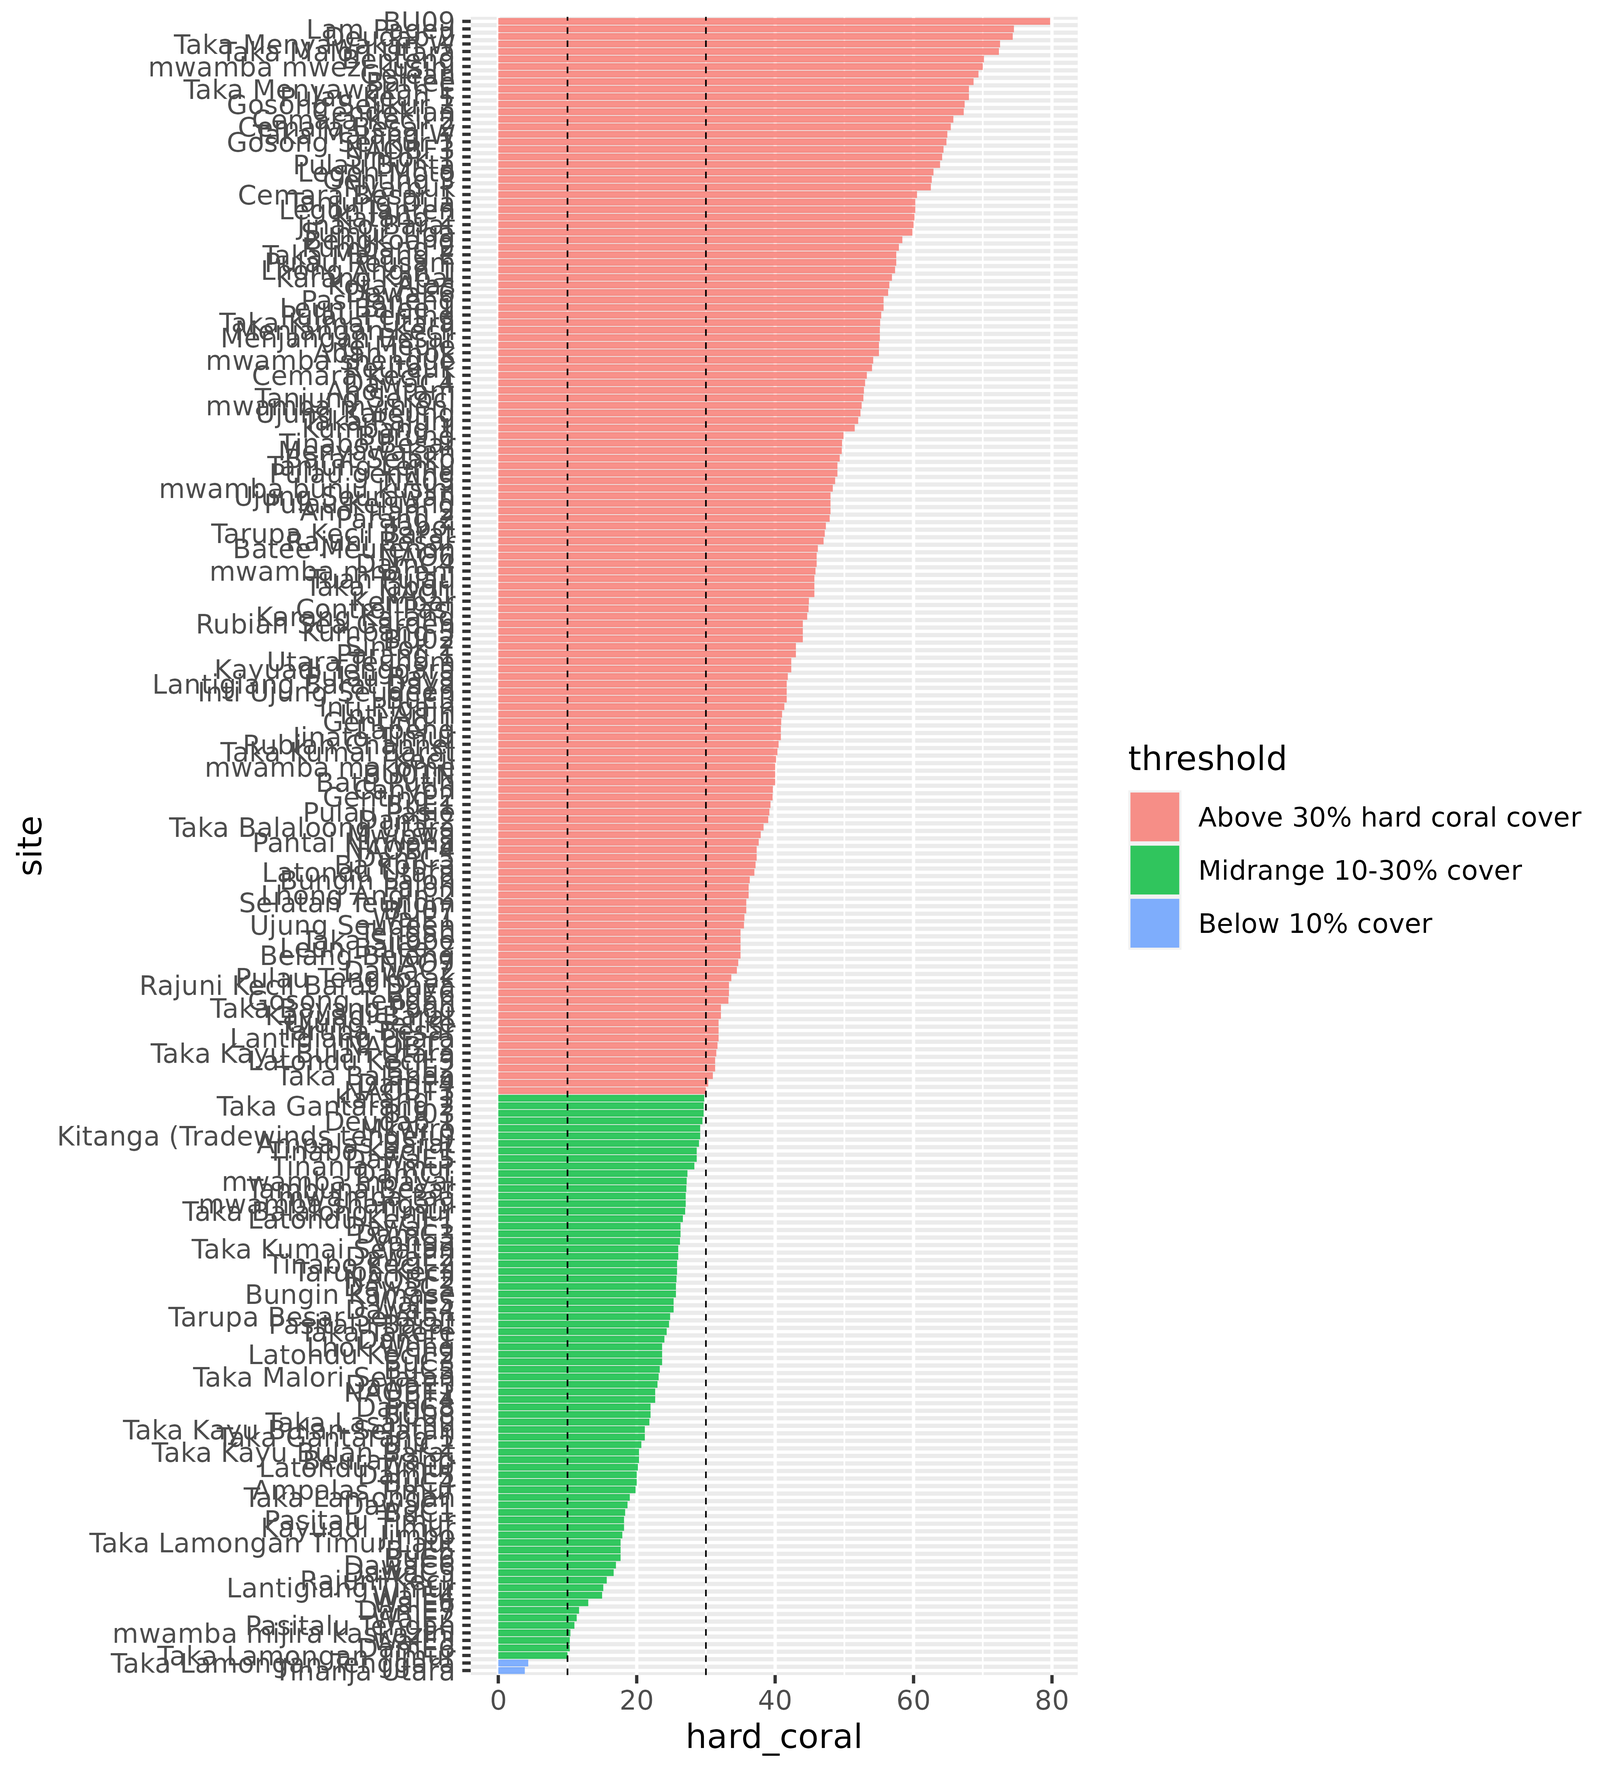
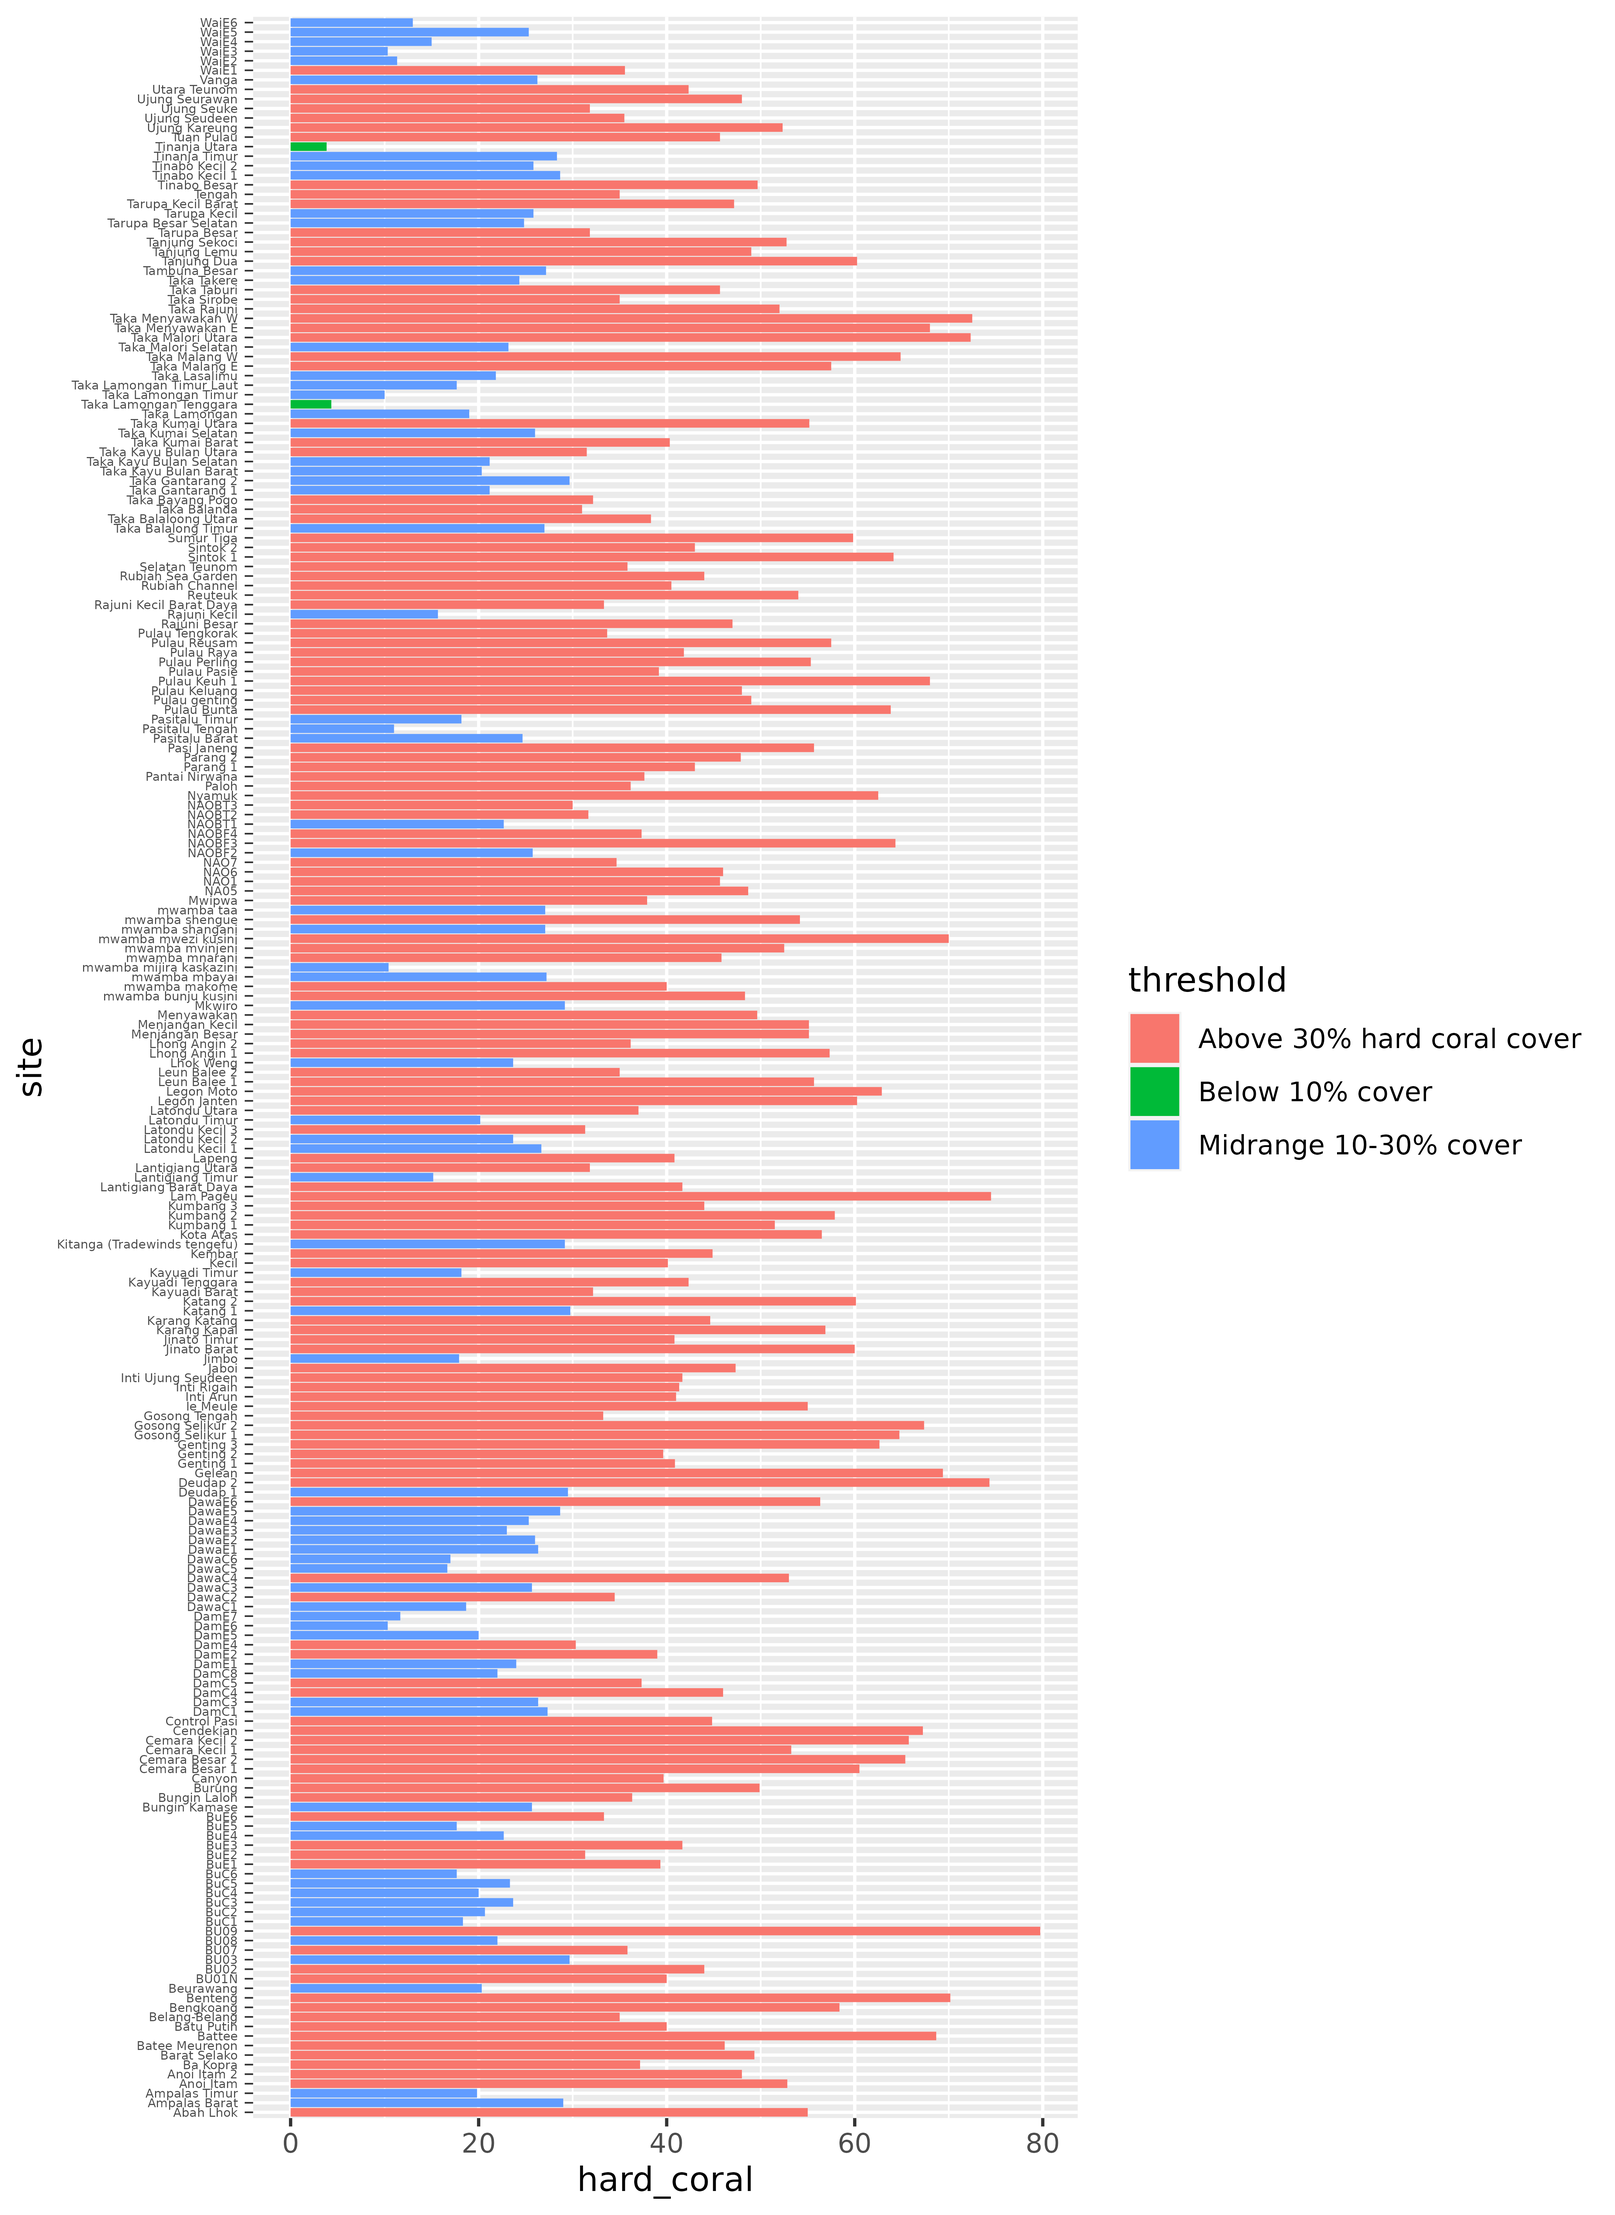
Deploying to gh-pages from @ data-mermaid/mermaidr@472158c2ac253267db38435ad36c517fda763f8d 🚀

diff --git a/articles/vo_baseline_monitoring.html b/articles/vo_baseline_monitoring.html
@@ -300,7 +300,7 @@ what do those 10 - 30% coverages actually look like?</p>
 <span></span>
 <span><span class="fu"><a href="https://ggplot2.tidyverse.org/reference/ggplot.html" class="external-link">ggplot</a></span><span class="op">(</span><span class="va">benthic_data_latest</span><span class="op">)</span> <span class="op">+</span></span>
 <span>  <span class="fu"><a href="https://ggplot2.tidyverse.org/reference/geom_bar.html" class="external-link">geom_col</a></span><span class="op">(</span><span class="fu"><a href="https://ggplot2.tidyverse.org/reference/aes.html" class="external-link">aes</a></span><span class="op">(</span>x <span class="op">=</span> <span class="va">hard_coral</span>, y <span class="op">=</span> <span class="va">site</span>, fill <span class="op">=</span> <span class="va">threshold</span><span class="op">)</span><span class="op">)</span></span></code></pre></div>
-<p><img src="vo-unnamed-chunk-10-1.png" alt="A bar chart with hard coral cover on the x axis (titled hard_coral) and sites on the y axis (titled site). The bars are colored in pink, green, and blue, according to whether they have above 30% hard coral cover, below 10% cover, or 10-30% cover, respectively. The sites are ordered alphabeticaly." width="2187.5"></p>
+<p><img src="vo-unnamed-chunk-11-1.png" alt="A bar chart with hard coral cover on the x axis (titled hard_coral) and sites on the y axis (titled site). The bars are colored in pink, green, and blue, according to whether they have above 30% hard coral cover, below 10% cover, or 10-30% cover, respectively. The sites are ordered alphabeticaly." width="2187.5"></p>
 <p>This is a good start, but it would probably be much more useful with
 a few changes. We can recorder the sites so that they go in descending
 order, from highest to lowest hard coral coverage. We can also rearrange
@@ -321,12 +321,12 @@ more explicitly.</p>
 <span>  <span class="fu"><a href="https://ggplot2.tidyverse.org/reference/geom_abline.html" class="external-link">geom_vline</a></span><span class="op">(</span>xintercept <span class="op">=</span> <span class="fl">30</span>, linetype <span class="op">=</span> <span class="st">"dashed"</span>, linewidth <span class="op">=</span> <span class="fl">0.25</span><span class="op">)</span></span>
 <span></span>
 <span><span class="va">hard_coral_plot</span></span></code></pre></div>
-<p><img src="vo-unnamed-chunk-11-1.png" alt="A bar chart with hard coral cover on the x axis (titled hard_coral) and sites on the y axis (titled site). The bars are colored in pink, green, and blue, according to whether they have above 30% hard coral cover, 10-30% cover, or below 10% cover. The sites are ordered by their hard coral coverage, from highest to lowest. There is a dashed vertical line at 10% and 30% hard coral." width="2187.5"></p>
+<p><img src="vo-unnamed-chunk-13-1.png" alt="A bar chart with hard coral cover on the x axis (titled hard_coral) and sites on the y axis (titled site). The bars are colored in pink, green, and blue, according to whether they have above 30% hard coral cover, 10-30% cover, or below 10% cover. The sites are ordered by their hard coral coverage, from highest to lowest. There is a dashed vertical line at 10% and 30% hard coral." width="2187.5"></p>
 <p>Finally, we can make some visual changes, like updating the theme,
 removing the site names; we care more about the distribution than which
-site they correspond to (which isn’t legible anyways!) for this plot,
-adding axis labels for every 10%, cleaning up labels, and some other
-fiddly bits to create a beautiful plot!</p>
+site they correspond to (which is too small to read anyways!) for this
+plot, adding axis labels for every 10%, cleaning up labels, and some
+other fiddly bits to create a beautiful plot!</p>
 <div class="sourceCode" id="cb10"><pre class="downlit sourceCode r">
 <code class="sourceCode R"><span><span class="va">hard_coral_plot</span> <span class="op">&lt;-</span> <span class="va">hard_coral_plot</span> <span class="op">+</span></span>
 <span>  <span class="fu"><a href="https://ggplot2.tidyverse.org/reference/scale_continuous.html" class="external-link">scale_x_continuous</a></span><span class="op">(</span>name <span class="op">=</span> <span class="st">"Hard coral cover, %"</span>, breaks <span class="op">=</span> <span class="fu"><a href="https://rdrr.io/r/base/seq.html" class="external-link">seq</a></span><span class="op">(</span><span class="fl">0</span>, <span class="fl">80</span>, <span class="fl">10</span><span class="op">)</span><span class="op">)</span> <span class="op">+</span></span>
@@ -341,7 +341,7 @@ fiddly bits to create a beautiful plot!</p>
 <span>  <span class="op">)</span></span>
 <span></span>
 <span><span class="va">hard_coral_plot</span></span></code></pre></div>
-<p><img src="vo-unnamed-chunk-12-1.png" alt="A bar chart with hard coral cover on the x axis and sites on the y axis. The bars are colored in grey, yellow, and red, according to whether they have above 30% hard coral cover, 10-30% cover, or below 10% cover. The sites are ordered by their hard coral coverage, from highest to lowest. There is a vertical line at 10% and 30% hard coral cover. The site names have been removed and the plot now has a title: A sample of WCS Vibrant Ocean survey sites, ordered by hard coral cover. The x axis is titled: Hard coral cover, %." width="2187.5"></p>
+<p><img src="vo-unnamed-chunk-14-1.png" alt="A bar chart with hard coral cover on the x axis and sites on the y axis. The bars are colored in grey, yellow, and red, according to whether they have above 30% hard coral cover, 10-30% cover, or below 10% cover. The sites are ordered by their hard coral coverage, from highest to lowest. There is a vertical line at 10% and 30% hard coral cover. The site names have been removed and the plot now has a title: A sample of WCS Vibrant Ocean survey sites, ordered by hard coral cover. The x axis is titled: Hard coral cover, %." width="2187.5"></p>
 <p>That looks much better!</p>
 <p>For further analysis, we can also calculate the average hard coral
 cover (and its standard error) then show them in a beautiful graph.
@@ -422,7 +422,7 @@ this using the <code>ggplot2</code> as we did it previously, using
 <span>    legend.position <span class="op">=</span> <span class="st">"none"</span>,</span>
 <span>    plot.title <span class="op">=</span> <span class="fu"><a href="https://ggplot2.tidyverse.org/reference/element.html" class="external-link">element_text</a></span><span class="op">(</span>hjust <span class="op">=</span> <span class="fl">0.5</span>, face <span class="op">=</span> <span class="st">"bold"</span><span class="op">)</span></span>
 <span>  <span class="op">)</span></span></code></pre></div>
-<p><img src="vo-unnamed-chunk-15-1.png" alt="A bar chart with country on the x axis and average hard coral cover on the y axis. The bars are colored in according to country. The bar chart has a standard error for each country, using site as the replicates. The plot now has a title: Average Hard Coral Cover by Country. The x axis is titled: Country and the y axis is titled: Average Hard Coral Cover (%) plus or minus standard error." width="2187.5"></p>
+<p><img src="vo-unnamed-chunk-17-1.png" alt="A bar chart with country on the x axis and average hard coral cover on the y axis. The bars are colored in according to country. The bar chart has a standard error for each country, using site as the replicates. The plot now has a title: Average Hard Coral Cover by Country. The x axis is titled: Country and the y axis is titled: Average Hard Coral Cover (%) plus or minus standard error." width="2187.5"></p>
 <p>It might also be interesting to see the changes in hard coral cover
 over time. To make this graph, first, we need to go back to the original
 <code>benthic_data</code> data set which contains sample date.</p>
@@ -499,7 +499,7 @@ one year of data.</p>
 <span>  <span class="fu"><a href="https://ggplot2.tidyverse.org/reference/scale_colour_discrete.html" class="external-link">scale_color_discrete</a></span><span class="op">(</span>name <span class="op">=</span> <span class="st">"Country"</span><span class="op">)</span> <span class="op">+</span></span>
 <span>  <span class="fu"><a href="https://ggplot2.tidyverse.org/reference/ggtheme.html" class="external-link">theme_minimal</a></span><span class="op">(</span><span class="op">)</span> <span class="op">+</span></span>
 <span>  <span class="fu"><a href="https://ggplot2.tidyverse.org/reference/theme.html" class="external-link">theme</a></span><span class="op">(</span>plot.title <span class="op">=</span> <span class="fu"><a href="https://ggplot2.tidyverse.org/reference/element.html" class="external-link">element_text</a></span><span class="op">(</span>hjust <span class="op">=</span> <span class="fl">0.5</span>, face <span class="op">=</span> <span class="st">"bold"</span><span class="op">)</span><span class="op">)</span></span></code></pre></div>
-<p><img src="vo-unnamed-chunk-20-1.png" alt="A line chart with year on the x axis and average hard coral cover on the y axis. The lines are colored in red and blue to differentiate per country. The plot now has a title: Trend Average Hard Coral Cover per Country. The x axis is titled: Year and the y axis is titled: Average Hard Coral Cover (%)." width="2187.5"></p>
+<p><img src="vo-unnamed-chunk-22-1.png" alt="A line chart with year on the x axis and average hard coral cover on the y axis. The lines are colored in red and blue to differentiate per country. The plot now has a title: Trend Average Hard Coral Cover per Country. The x axis is titled: Year and the y axis is titled: Average Hard Coral Cover (%)." width="2187.5"></p>
 <p>Looks great! You can save the plot and use it in your report!</p>
 </div>
 <div class="section level2">
@@ -599,7 +599,7 @@ similar to our visualization before:</p>
 <span>    panel.grid.minor <span class="op">=</span> <span class="fu"><a href="https://ggplot2.tidyverse.org/reference/element.html" class="external-link">element_blank</a></span><span class="op">(</span><span class="op">)</span>,</span>
 <span>    panel.grid.major.y <span class="op">=</span> <span class="fu"><a href="https://ggplot2.tidyverse.org/reference/element.html" class="external-link">element_blank</a></span><span class="op">(</span><span class="op">)</span></span>
 <span>  <span class="op">)</span></span></code></pre></div>
-<p><img src="vo-unnamed-chunk-25-1.png" alt="A bar chart showing total reef fish biomass in kilograms per hectare (on the axis) by site (on the y axis). The sites are shown in order of their biomass, from highest to lowest. The bars are grey if the biomass is above 500 kg and red if it is below 500kg. There is a vertical dashed line at the 500kg mark. The plot is titled 'A sample of WCS Vibrant Oceans survey sites, ordered by reef fish biomass.'" width="2187.5"></p>
+<p><img src="vo-unnamed-chunk-27-1.png" alt="A bar chart showing total reef fish biomass in kilograms per hectare (on the axis) by site (on the y axis). The sites are shown in order of their biomass, from highest to lowest. The bars are grey if the biomass is above 500 kg and red if it is below 500kg. There is a vertical dashed line at the 500kg mark. The plot is titled 'A sample of WCS Vibrant Oceans survey sites, ordered by reef fish biomass.'" width="2187.5"></p>
 <p>We can also calculate the average fish biomass per country with
 standard errors and fish biomass trend through time, just like we did
 for benthic. First, let’s calculate the average fish biomass bt country
@@ -641,7 +641,7 @@ and present it in a bar plot.</p>
 <span>    legend.position <span class="op">=</span> <span class="st">"none"</span>,</span>
 <span>    plot.title <span class="op">=</span> <span class="fu"><a href="https://ggplot2.tidyverse.org/reference/element.html" class="external-link">element_text</a></span><span class="op">(</span>hjust <span class="op">=</span> <span class="fl">0.5</span>, face <span class="op">=</span> <span class="st">"bold"</span><span class="op">)</span></span>
 <span>  <span class="op">)</span></span></code></pre></div>
-<p><img src="vo-unnamed-chunk-26-1.png" alt="A bar chart with country on the x axis and average fish biomass on the y axis. The bars are colored in red, green, and blue to differentiate per country. The plot now has a title: Average Fish Biomass per Country. The x axis is titled: Country and the y axis is titled: Average Fish Biomass (kg/ha)." width="2187.5"></p>
+<p><img src="vo-unnamed-chunk-28-1.png" alt="A bar chart with country on the x axis and average fish biomass on the y axis. The bars are colored in red, green, and blue to differentiate per country. The plot now has a title: Average Fish Biomass per Country. The x axis is titled: Country and the y axis is titled: Average Fish Biomass (kg/ha)." width="2187.5"></p>
 <p>We have our average fish biomass per country plot. Let’s continue
 with visualizing the changes in fish biomass per country. Again, we’ll
 go back to the original <code>fishbelt_data</code> data set which has
@@ -697,7 +697,7 @@ then visualize it in a line plot.</p>
 <span>  <span class="fu"><a href="https://ggplot2.tidyverse.org/reference/scale_colour_discrete.html" class="external-link">scale_color_discrete</a></span><span class="op">(</span>name <span class="op">=</span> <span class="st">"Country"</span><span class="op">)</span> <span class="op">+</span></span>
 <span>  <span class="fu"><a href="https://ggplot2.tidyverse.org/reference/ggtheme.html" class="external-link">theme_minimal</a></span><span class="op">(</span><span class="op">)</span> <span class="op">+</span></span>
 <span>  <span class="fu"><a href="https://ggplot2.tidyverse.org/reference/theme.html" class="external-link">theme</a></span><span class="op">(</span>plot.title <span class="op">=</span> <span class="fu"><a href="https://ggplot2.tidyverse.org/reference/element.html" class="external-link">element_text</a></span><span class="op">(</span>hjust <span class="op">=</span> <span class="fl">0.5</span>, face <span class="op">=</span> <span class="st">"bold"</span><span class="op">)</span><span class="op">)</span></span></code></pre></div>
-<p><img src="vo-unnamed-chunk-28-1.png" alt="A line chart with year on the x axis and average fish biomass on the y axis. The lines are colored in red and tosca to differentiate per country. The plot now has a title: Trend of  Average Fish Biomass by Country. The x axis is titled: Year and the y axis is titled: Average Fish Biomass (kg/ha)." width="2187.5"></p>
+<p><img src="vo-unnamed-chunk-30-1.png" alt="A line chart with year on the x axis and average fish biomass on the y axis. The lines are colored in red and tosca to differentiate per country. The plot now has a title: Trend of  Average Fish Biomass by Country. The x axis is titled: Year and the y axis is titled: Average Fish Biomass (kg/ha)." width="2187.5"></p>
 </div>
   </div>
 
